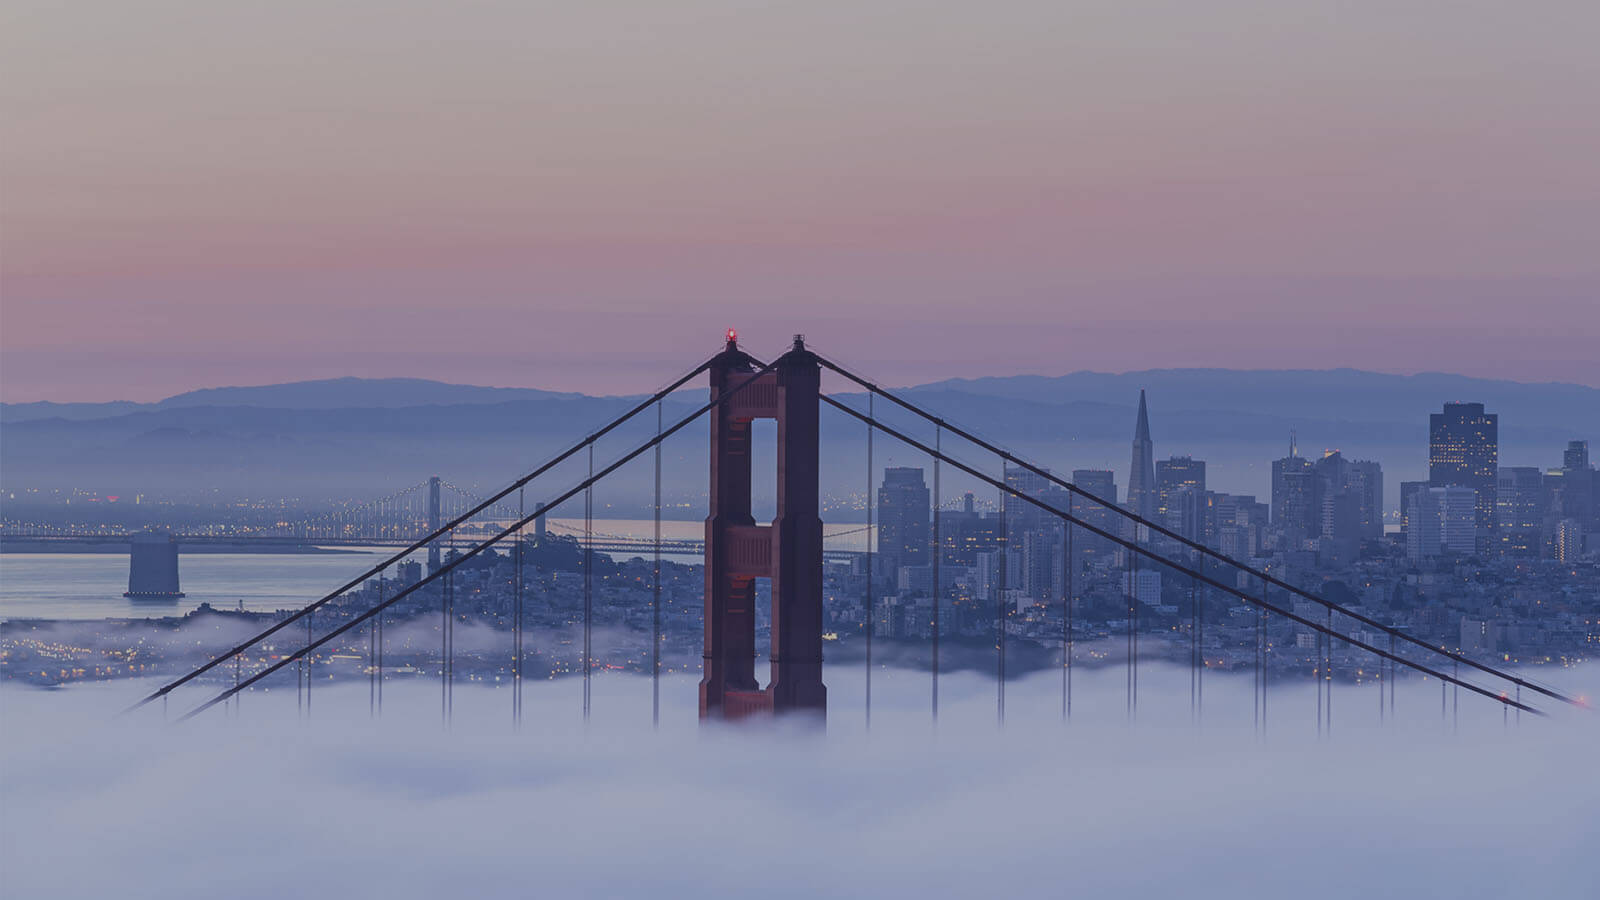
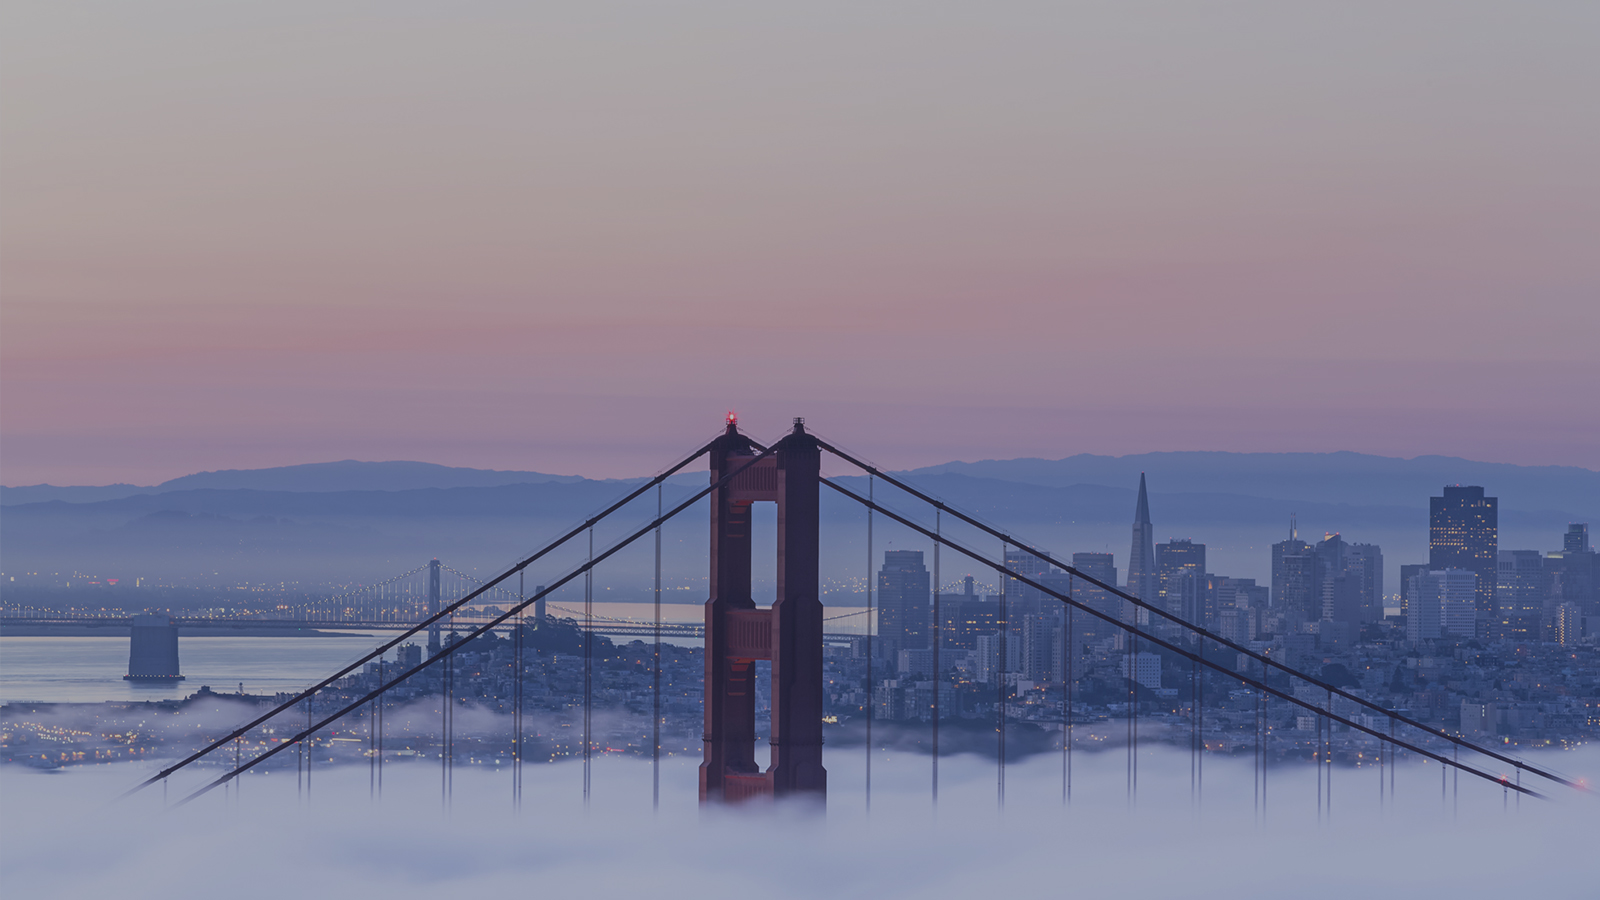
:+1:
fixed 1

diff --git a/_sass/_base.scss b/_sass/_base.scss
@@ -66,7 +66,7 @@ body {
 }
 
 .has-bg {
-  background-image: url(../images/faircare-bg.jpg);
+  background-image: url(../images/faircare-bg.jpg?v=18052015);
   background-repeat: no-repeat;
   background-size: cover;
   background-position: top center;
@@ -102,7 +102,7 @@ body {
 
 .sl-main-content {
   font-size: 24px;
-  font-weight: 400;
+  font-weight: 300;
 
   a, a:link {
     color: $text-color;
@@ -130,10 +130,12 @@ body {
     margin: 2em 0 1em;
     > .copyright-text {
      border-top: 1px solid #ccc;
-     padding: 0.875em;
-     display: inline-block; 
+     padding: 1em;
+     display: inline-block;
+    font-size: 0.75em;
+    opacity: 0.8; 
      @media screen and (max-width:768px) {
-      font-size: 0.75em;
+      font-size: 0.6em;
     }
   }
 }
@@ -160,7 +162,11 @@ body {
     width: 280px !important;  
   } 
 }
-
+.top-color-line {
+  height: 2px;
+  width: 100%;
+  background-color: turquoise;
+}
 
 
 
@@ -214,7 +220,7 @@ body {
 }
 .sl-popup-body {
   background: #FFF;
-  color: #111;
+  color: $text-color;
   padding: 10px;
   border-radius: 5px;
   -webkit-border-radius: 5px;

diff --git a/css/main.scss b/css/main.scss
@@ -3,10 +3,24 @@
 ---
 @charset "utf-8";
 
-
+@font-face {
+font-family: 'Avenir';
+font-weight: 300;
+src: local('Avenir LT Std 35 Light'), url('../fonts/AvenirLTStd-Light.woff') format('woff');
+}
+@font-face {
+font-family: 'Avenir';
+font-weight: 400;
+src: local('Avenir LT Std 35 Roman'), url('../fonts/AvenirLTStd-Roman.woff') format('woff');
+}
+@font-face {
+font-family: 'Avenir';
+font-weight: 800;
+src: local('Avenir LT Std 35 Black'), url('../fonts/AvenirLTStd-Black.woff') format('woff');
+}
 
 // Our variables
-$base-font-family: "Lato",Helvetica, Arial, sans-serif;
+$base-font-family: "Avenir",Lato, Helvetica, Arial, sans-serif;
 $base-font-size:   16px;
 $small-font-size:  $base-font-size * 0.875;
 $base-line-height: 1.5;

diff --git a/confirm.html b/confirm.html
@@ -8,7 +8,7 @@ layout: bg
   </header><!-- //header -->
 
   <!-- content -->
-  <main class="sl-content text-center animated fadeInUp">
+  <main class="sl-content text-center animated fadeIn">
     <div class="lead">
       <p>A way to find the best prices for medical procedures, the best doctors near you, and help others save money on medical expenses.</p>
     </div>

diff --git a/_layouts/bg.html b/_layouts/bg.html
@@ -4,6 +4,7 @@
   {% include head.html %}
 
   <body class="has-bg">
+  		<div class="top-color-line"></div>
   		<div class="container">   
     		{{ content }}
     	</div>
